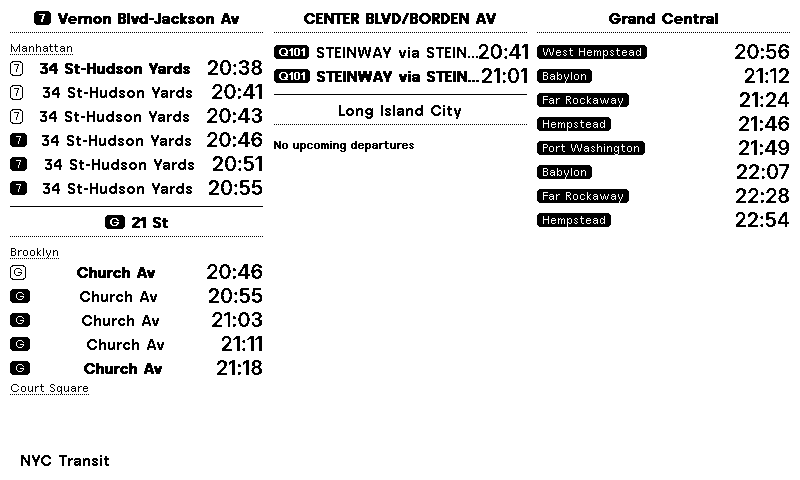
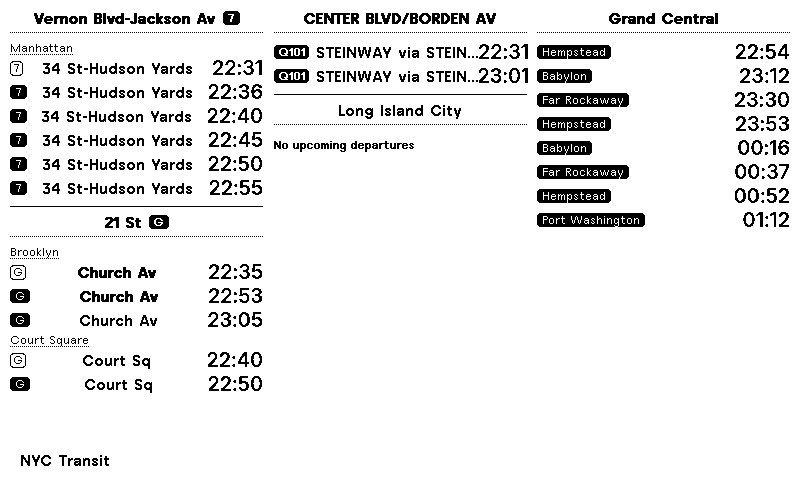
Add store metadata, a demo board, and payload trimming
Three things the plugin needed before it could be submitted.

Categories and a recipe overview. trmnlp lints the overview at a 100-word
minimum, for the recipe page to be findable - it was skipping the check only
because the field was absent. Written at 278 words.

A demo board, which answers two problems at once. A new installer would
otherwise see a blank panel and have to guess the fault was their own empty
form; and the public recipe page renders a preview from the author's own
instance, which would publish my home stations to everyone browsing the
directory. An unconfigured board now shows Times Square, Penn Station and
Grand Central - real live data from stations nobody lives at, exercising all
three transit types - and flags itself so the panel can say what it is.

Payload trimming, which the demo board exposed as newly necessary. Raising
rows per card to 16 so the panel could decide what fits made the 5KB cap
reachable: six busy subway cards measured at 90.3%. Going over does not fail
loudly - TRMNL truncates - so the board would quietly lose its last cards.
Rows are now dropped from the longest column first, costing the departures
furthest in the future while every card keeps its soonest. Worst case drops
to 89.1% with all six cards intact; an ordinary board is untouched at 33.5%.

Two layout fixes the demo render exposed. A twelve-route complex crushed its
station name to "Ti..." because the bullets led the heading, and then wrapped
[…]

diff --git a/trmnl-recipe/src/index.ts b/trmnl-recipe/src/index.ts
@@ -9,11 +9,49 @@
  */
 
 import { parseBoardSettings } from "./settings";
-import { buildBoard, type BuildEnv } from "./buildBoard";
+import {
+  buildBoard,
+  type BuildEnv,
+  type Board,
+  type BoardColumn,
+} from "./buildBoard";
 import { searchStations, parsePickerKind } from "./pickers";
 
 /** TRMNL's payload ceiling; 10KB with TRMNL+. */
 const PAYLOAD_CAP_BYTES = 5 * 1024;
+
+/** Bytes a board serialises to. */
+function payloadBytes(board: Board): number {
+  return new TextEncoder().encode(JSON.stringify(board)).length;
+}
+
+/**
+ * Drop rows until the board fits, longest column first.
+ *
+ * Keeping a safety margin under the real cap: the measurement here is of our
+ * own JSON, while TRMNL measures what it stores after merging, which is not
+ * guaranteed to be identical.
+ */
+function trimToPayloadCap(board: Board, cap: number): void {
+  const margin = cap - 256;
+  // Bounded rather than `while (true)`: a pathological board should degrade,
+  // not spin.
+  for (let pass = 0; pass < 200; pass++) {
+    if (payloadBytes(board) <= margin) return;
+
+    let longest: BoardColumn | undefined;
+    for (const card of board.c) {
+      for (const column of card.k ?? []) {
+        if (!longest || column.r.length > longest.r.length) longest = column;
+      }
+    }
+
+    // Nothing left to drop — the chrome alone exceeds the cap, which the
+    // caller can see in the reported byte count.
+    if (!longest || longest.r.length === 0) return;
+    longest.r.pop();
+  }
+}
 
 const json = (body: unknown, status = 200) =>
   new Response(JSON.stringify(body), {
@@ -143,7 +181,7 @@ export default {
     // whole design rule is that nothing blanks the board — and a Worker
     // exception renders as nothing at all, since the Liquid template never
     // runs. So the invariant is enforced here rather than trusted.
-    let board;
+    let board: Board;
     try {
       board = await buildBoard(parseBoardSettings(url), env);
     } catch (err) {
@@ -159,6 +197,17 @@ export default {
         ],
       };
     }
+
+    // Trim before serialising if the board would exceed what TRMNL stores.
+    // Raising the per-card row count so the panel can decide what fits made
+    // this reachable: six busy subway cards measured at 90% of the cap, and
+    // going over does not fail loudly — TRMNL truncates, so the panel would
+    // simply render a board missing its last cards.
+    //
+    // Rows are dropped from the end of the longest column first, so the trim
+    // costs the departures furthest in the future and every card keeps its
+    // soonest ones.
+    trimToPayloadCap(board, PAYLOAD_CAP_BYTES);
 
     const body = JSON.stringify(board);
     const bytes = new TextEncoder().encode(body).length;

diff --git a/trmnl-recipe/src/settings.ts b/trmnl-recipe/src/settings.ts
@@ -43,6 +43,8 @@ export interface CardSettings {
 /** A whole board, as one poll describes it. */
 export interface BoardSettings {
   cards: CardSettings[];
+  /** True when nothing was configured and the demo board stood in. */
+  isDemo: boolean;
   use24HourTime: boolean;
   urgentThresholdMinutes: number;
   showLeaveIn: boolean;
@@ -142,6 +144,46 @@ function parseCard(slot: number, raw: string | null): CardSettings | undefined {
 }
 
 /**
+ * The board a plugin shows before anyone has configured it.
+ *
+ * Two problems, one answer. A new installer would otherwise see a blank panel
+ * and have to guess that the fault is their own empty form. And the public
+ * recipe page renders a preview from whatever the author's own instance holds,
+ * which would publish the author's home stations to everyone browsing the
+ * directory.
+ *
+ * So an unconfigured board shows a demonstration instead: three well-known
+ * Manhattan stations nobody lives at, exercising all three transit types, with
+ * walk times that make the filtering visible. It is real live data — the
+ * stations exist and the feeds are current — so the preview shows what the
+ * plugin genuinely does rather than a mock-up of it.
+ */
+const DEMO_CARDS: CardSettings[] = [
+  {
+    slot: 1,
+    transitType: "subway",
+    // Times Square, all five platform groups, as the picker would supply them.
+    stopIds: ["127", "725", "902", "A27", "R16"],
+    walkTime: 5,
+    title: "Times Sq-42 St",
+  },
+  {
+    slot: 3,
+    transitType: "railroad-lirr",
+    stopIds: ["237"], // Penn Station
+    walkTime: 10,
+    title: "Penn Station",
+  },
+  {
+    slot: 5,
+    transitType: "railroad-mtn",
+    stopIds: ["1"], // Grand Central
+    walkTime: 10,
+    title: "Grand Central",
+  },
+];
+
+/**
  * Read a board out of a polling request's query string.
  *
  * Never throws: an empty or malformed request yields a board with no cards,
@@ -158,7 +200,9 @@ export function parseBoardSettings(url: URL): BoardSettings {
   }
 
   return {
-    cards,
+    // An unconfigured board demonstrates itself rather than rendering blank.
+    cards: cards.length > 0 ? cards : DEMO_CARDS,
+    isDemo: cards.length === 0,
     use24HourTime: parseBoolean(params.get("h24"), true),
     urgentThresholdMinutes: parseNumber(
       params.get("urgent") ?? undefined,

diff --git a/trmnl-recipe/src/buildBoard.ts b/trmnl-recipe/src/buildBoard.ts
@@ -75,6 +75,8 @@ export interface Board {
   /** Generation time, ISO 8601. */
   t: string;
   c: BoardCard[];
+  /** Present and true when this is the demo board, not a configured one. */
+  d?: true;
 }
 
 /** Environment the Worker supplies. */
@@ -439,5 +441,11 @@ export async function buildBoard(
     })
   );
 
-  return { t: new Date().toISOString(), c: cards.sort((a, b) => a.s - b.s) };
+  const board: Board = {
+    t: new Date().toISOString(),
+    c: cards.sort((a, b) => a.s - b.s),
+  };
+  // The panel says so, so a new installer knows these are not their stations.
+  if (settings.isDemo) board.d = true;
+  return board;
 }
